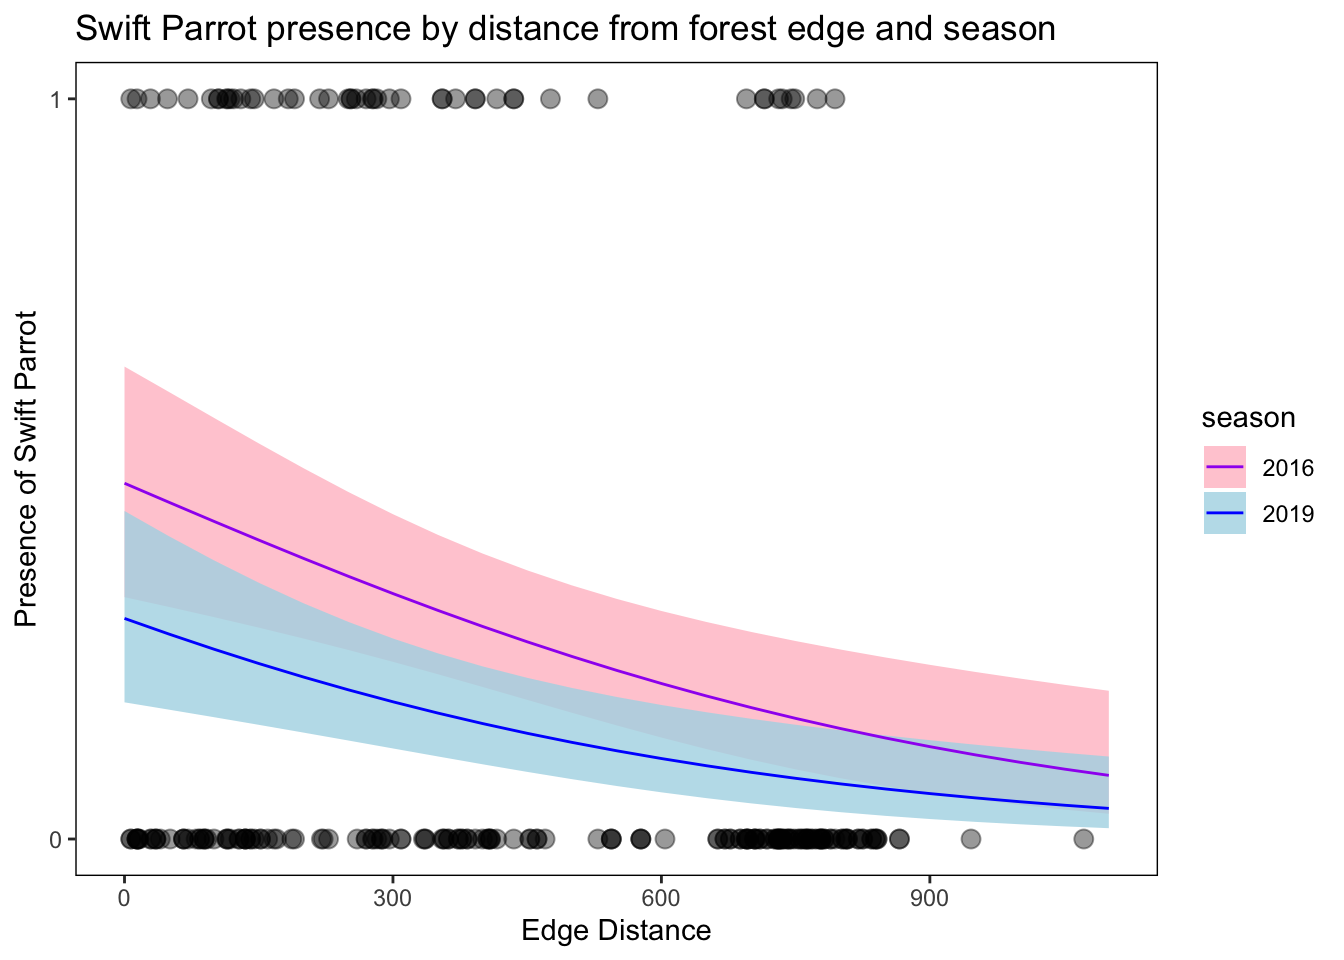
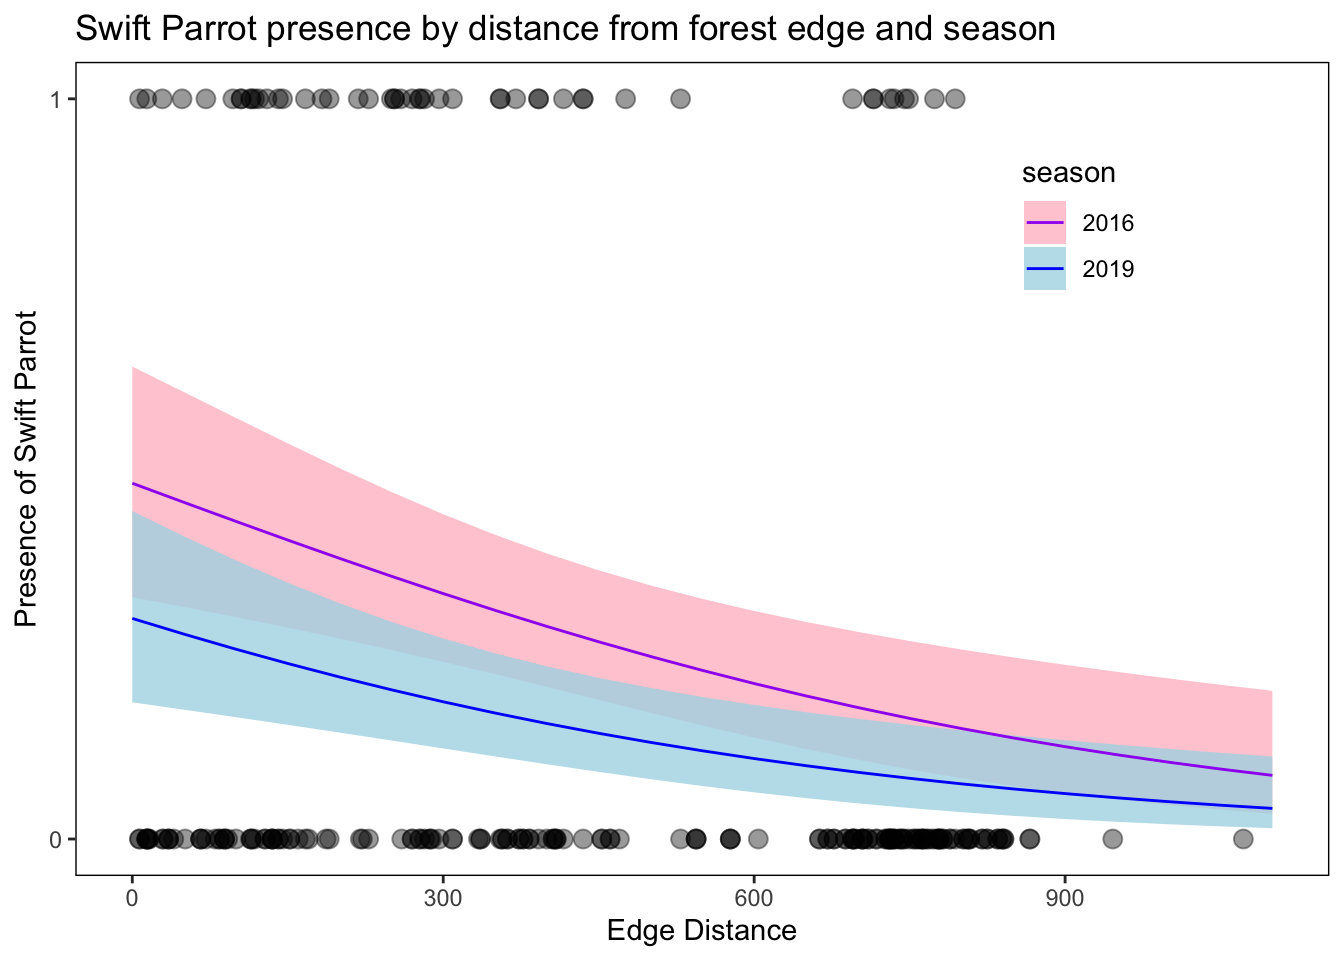
saving changes

diff --git a/code/ENVS-193DS_spring-2025_final.html b/code/ENVS-193DS_spring-2025_final.html
@@ -210,11 +210,11 @@ window.Quarto = {
 <pre><code># A tibble: 5 × 3
   year  month mean_monthly_sst
   &lt;fct&gt; &lt;ord&gt;            &lt;dbl&gt;
-1 2015  Dec               16.5
-2 1994  Sep               17.3
-3 1991  Dec               14.2
-4 2017  Nov               16.6
-5 2014  Sep               19.1</code></pre>
+1 1995  Jan               13.9
+2 1998  Mar               14.8
+3 2016  Mar               14.8
+4 1999  Jul               16.6
+5 1995  Feb               14.5</code></pre>
 </div>
 <div class="sourceCode cell-code" id="cb4"><pre class="sourceCode r code-with-copy"><code class="sourceCode r"><span id="cb4-1"><a href="#cb4-1" aria-hidden="true" tabindex="-1"></a><span class="fu">str</span>(sst_clean) <span class="co">#showing structure of the code </span></span></code><button title="Copy to Clipboard" class="code-copy-button"><i class="bi"></i></button></pre></div>
 <div class="cell-output cell-output-stdout">
@@ -409,7 +409,7 @@ model0  1 238.8318</code></pre>
 </div>
 </div>
 <p>In text, write what the best model was (i.e.&nbsp;“The best model as determined by Akaike’s Information Criterion (AIC)…”).</p>
-<p><strong>The best model that predicts swift parrot nest box occupancy as determined by Akaike’s Information Criterion (AIC) includes season. </strong></p>
+<p><strong>The best model that predicts swift parrot nest box occupancy as determined by Akaike’s Information Criterion (AIC) includes both season and distance from forest edge. </strong></p>
 <p>Use the predictors and the response variable to describe the model, not the model number that you assigned.</p>
 </section>
 <section id="h.-visualize-the-model-predictions-24-points" class="level4">
@@ -458,7 +458,9 @@ model0  1 238.8318</code></pre>
 <span id="cb14-33"><a href="#cb14-33" aria-hidden="true" tabindex="-1"></a><span class="fu">scale_fill_manual</span>(<span class="at">values =</span> <span class="fu">c</span>(<span class="st">"2016"</span> <span class="ot">=</span> <span class="st">"pink"</span>, <span class="st">"2019"</span> <span class="ot">=</span> <span class="st">"lightblue"</span>)) <span class="sc">+</span> </span>
 <span id="cb14-34"><a href="#cb14-34" aria-hidden="true" tabindex="-1"></a>  <span class="fu">theme</span>(<span class="at">panel.grid =</span> <span class="fu">element_blank</span>(), </span>
 <span id="cb14-35"><a href="#cb14-35" aria-hidden="true" tabindex="-1"></a>        <span class="at">panel.background =</span> <span class="fu">element_blank</span>(), </span>
-<span id="cb14-36"><a href="#cb14-36" aria-hidden="true" tabindex="-1"></a>        <span class="at">panel.border =</span> <span class="fu">element_rect</span>(<span class="at">color =</span> <span class="st">"black"</span>, <span class="at">fill =</span> <span class="cn">NA</span>))</span></code><button title="Copy to Clipboard" class="code-copy-button"><i class="bi"></i></button></pre></div>
+<span id="cb14-36"><a href="#cb14-36" aria-hidden="true" tabindex="-1"></a>        <span class="at">panel.border =</span> <span class="fu">element_rect</span>(<span class="at">color =</span> <span class="st">"black"</span>, <span class="at">fill =</span> <span class="cn">NA</span>),</span>
+<span id="cb14-37"><a href="#cb14-37" aria-hidden="true" tabindex="-1"></a>        <span class="at">legend.position =</span> <span class="st">"inside"</span>,</span>
+<span id="cb14-38"><a href="#cb14-38" aria-hidden="true" tabindex="-1"></a>        <span class="at">legend.position.inside =</span> <span class="fu">c</span>(<span class="fl">0.8</span>,<span class="fl">0.8</span>))</span></code><button title="Copy to Clipboard" class="code-copy-button"><i class="bi"></i></button></pre></div>
 <div class="cell-output-display">
 <div>
 <figure class="figure">
